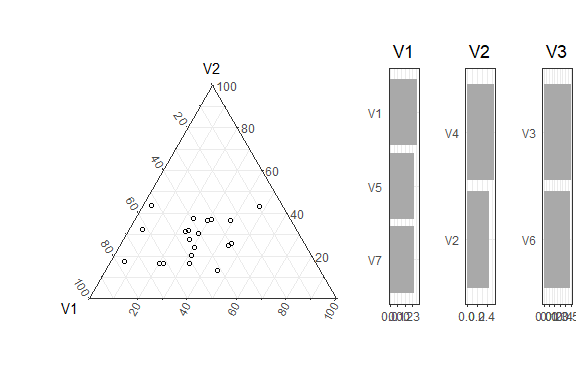
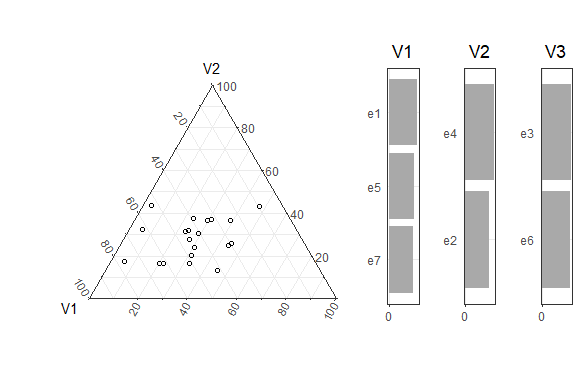
created readme.rmd

diff --git a/README.md b/README.md
@@ -1,0 +1,121 @@
+
+<!-- README.md is generated from README.Rmd. Please edit that file -->
+
+# psacomp
+
+<!-- badges: start -->
+<!-- badges: end -->
+
+*psacomp* is a package for computing *Principal Subsimplex Analysis*
+introduced in *Principal Subsimplex Analysis* (2025+), Hyeon Lee, Kassel
+Liam Hingee, Janice L. Scealy, Andrew T. A. Wood, Eric Grunsky, and J.
+S. Marron.
+
+## Installation
+
+The package `psacomp` can be installed by running the following code.
+
+``` r
+library(devtools)
+devtools::install_github("haneone33/psacomp")
+```
+
+## PSA Basics
+
+First we create an example compositional data set with 7 variables and
+20 data points.
+
+``` r
+set.seed(1)
+X = matrix(runif(20*7),20,7)
+X = sweep(X, 1, rowSums(X), '/')
+```
+
+Main function of *psacomp* is `psa()` which takes `type` and `X` as
+arguments. Available options for `type` are `type = 's'` for PSA-S and
+`type = 'o'` for PSA-O.
+
+``` r
+# library(psacomp)
+library(devtools)
+#> Loading required package: usethis
+#> Warning: package 'usethis' was built under R version 4.4.1
+load_all()
+#> ℹ Loading psacomp
+#> Registered S3 methods overwritten by 'ggtern':
+#>   method           from   
+#>   grid.draw.ggplot ggplot2
+#>   plot.ggplot      ggplot2
+#>   print.ggplot     ggplot2
+#> Warning: package 'testthat' was built under R version 4.4.2
+X.psas = psa(type = 's', X = X)
+#> Finished creating dimension 6.
+#> Finished creating dimension 5.
+#> Finished creating dimension 4.
+#> Finished creating dimension 3.
+#> Finished creating dimension 2.
+#> Finished creating dimension 1.
+X.psao = psa(type = 'o', X = X)
+#> Finished creating dimension 6.
+#> Finished creating dimension 5.
+#> Finished creating dimension 4.
+#> Finished creating dimension 3.
+#> Finished creating dimension 2.
+#> Finished creating dimension 1.
+```
+
+## Visualization
+
+Two types of graphics are provided. The first graphic is the ternary
+plot of 2-dimensional representation. The function `plot_ternary()`
+creates a ternary plot along with the plot of the three vertices.
+
+``` r
+plot_ternary(X.psas)
+```
+
+<img src="man/figures/README-unnamed-chunk-5-1.png" width="100%" />
+
+The data points can be colored according to any associated features such
+as `groups` below.
+
+``` r
+groups = as.factor(rep(1:4, each = 5))
+plot_ternary(X.psas, groups = groups)
+```
+
+<img src="man/figures/README-unnamed-chunk-6-1.png" width="100%" />
+
+`groups` can be continuous. The legend title is given by `group.name`.
+
+``` r
+intensity = rnorm(20)
+plot_ternary(X.psas, groups = intensity, group.name = 'Intensity')
+```
+
+<img src="man/figures/README-unnamed-chunk-7-1.png" width="100%" /> The
+second graphic is a bar plot representing the loading vectors.
+`plot_loading(X.psas, k)` displays the first `k` loading vectors.
+
+``` r
+plot_loading(X.psas, k = 5)
+```
+
+<img src="man/figures/README-unnamed-chunk-8-1.png" width="100%" />
+
+## Output Details
+
+`psa()` outputs a list of information calculated through PSA. The
+information is summarized in the following table. Suppose `X` is a data
+matrix with $n$ rows and $D$ columns.
+
+| Name       |    Type    |  Dimension  | Description                                                                                                               |
+|------------|:----------:|:-----------:|---------------------------------------------------------------------------------------------------------------------------|
+| vertices   |    list    |     $D$     | `vertices$'r=i'` is an $i\times D$ matrix of vertices of representation with $i$ vertices, each row representing a vertex |
+| pts.approx |    list    |     $D$     | `pts.approx$'r=i'` is an $n imes i$ matrix of rank $i-1$ representation, in the new vertex system of `vertices$'r=i'`     |
+| pts        |    list    |     $D$     | `pts$'r=i'` is an $n\times D$ matrix of rank $i-1$ representation, in the original vertex system of $D$ unit vertices     |
+| scores     |   matrix   | $n\times D$ | scores                                                                                                                    |
+| rss        |   vector   |     $D$     | residual sum of squares                                                                                                   |
+| loadings   |   matrix   | $D\times D$ | a matrix of loading vectors, each column representing a loading vector                                                    |
+| modes      |    list    |     $D$     | `modes$'r=i'` is a matrix of $i$th residual, i.e. difference `pts$'r=(i+1)'-pts$'r=i'`                                    |
+| const.info | data frame | $D\times 3$ | construction information. contains index of merged vertices and merge weights                                             |
